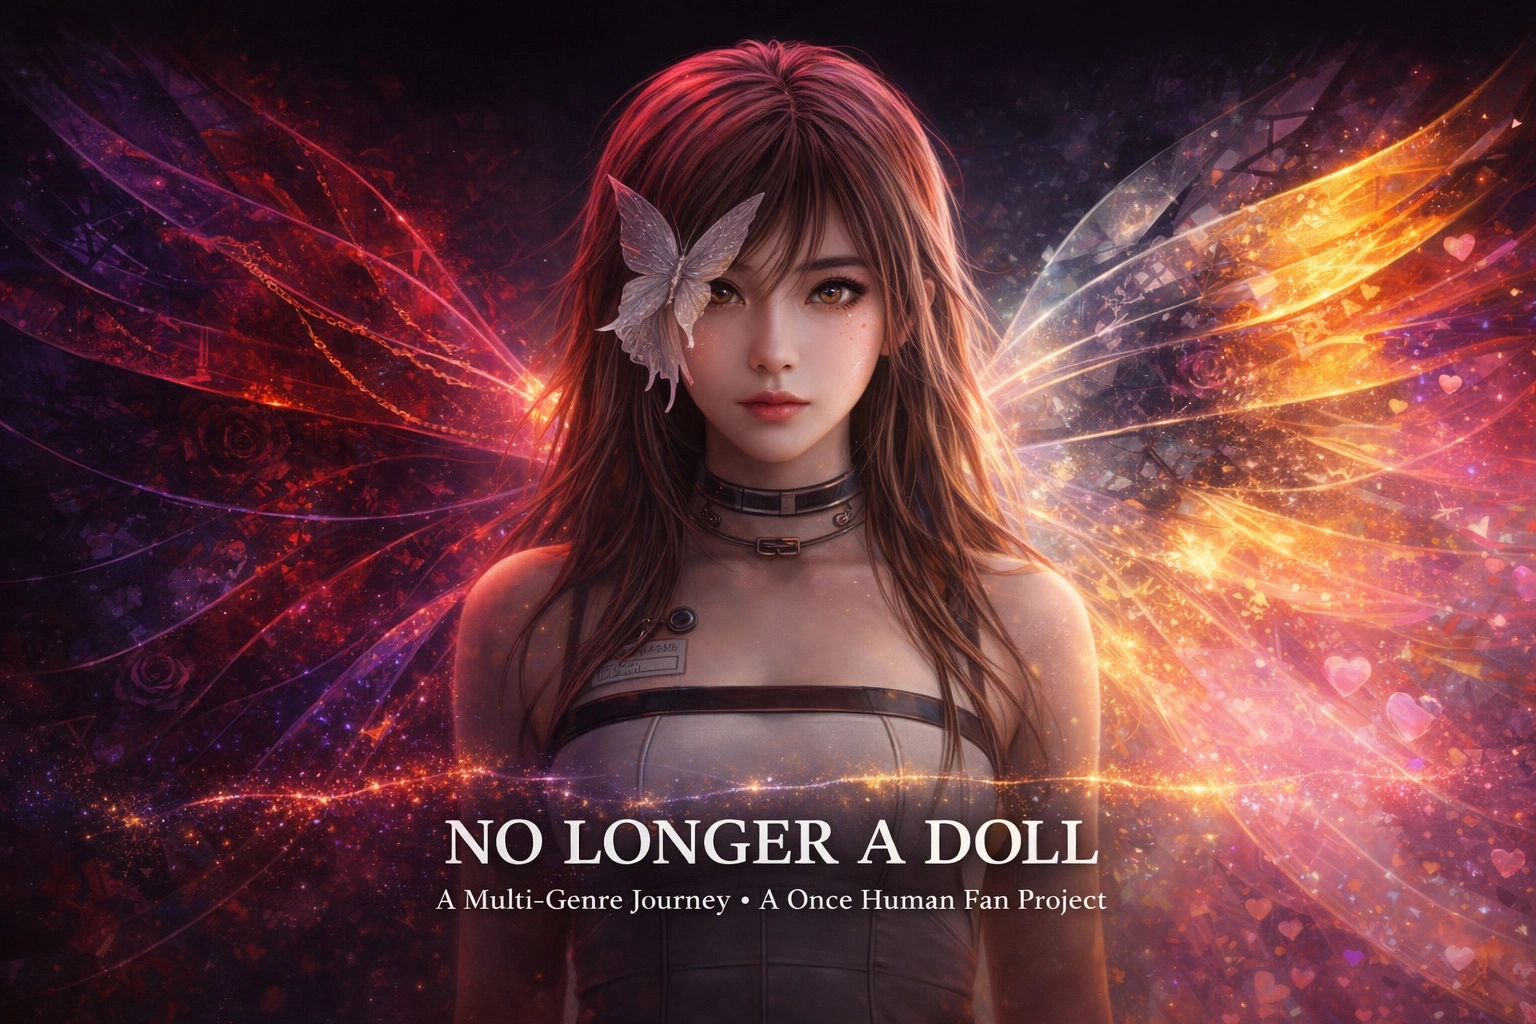
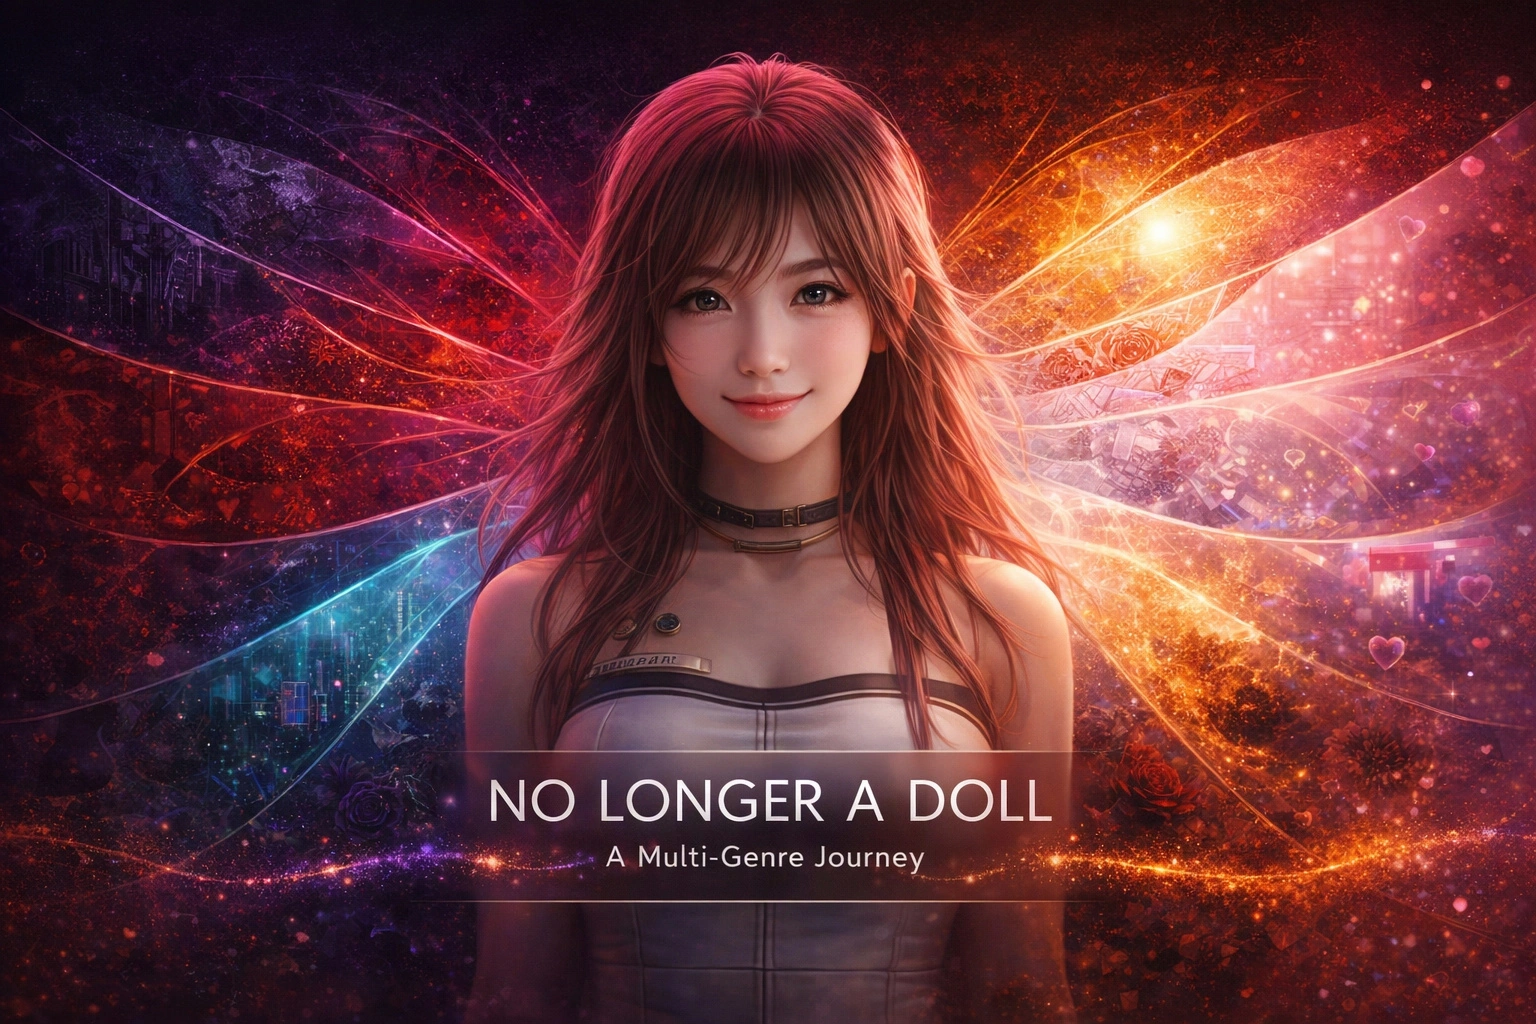
Preview ausgetauscht

diff --git a/styles/preview.md b/styles/preview.md
@@ -12,18 +12,20 @@ Für die GitHub-Startseite und das Social-Media-Preview-Image sind zwei verschie
 ![](covers/preview_3.webp)
 
 ````text
-SUBJECT: Create a 3:2 landscape key art banner (1536x1024) featuring a medium-shot central portrait (from chest up) of Mitsuko from the attached photorealistic reference image. Keep her exact face, natural skin pores, and hair identical to the reference—her face remains completely unmarred without cracks or glitches. Her eyes are OPEN. She looks directly at the viewer with a captivating expression blending vulnerability and newfound strength. Leave generous headroom above her hair and space below her chin so the image can later be cropped to a 2:1 banner without cutting off her head or text.
+SCENE: A wide 2:1 panoramic key art banner inside a 1536x1024 image designed with generous top and bottom margins so the central horizontal band can later be cropped cleanly to a 2:1 GitHub social preview (1280x640). Photorealistic cinematic still, shot on 35mm, crisp focus, rich lighting, fine film grain.
+SUBJECT: Medium-wide central portrait (from mid-chest up) of Mitsuko from the attached photorealistic reference image, framed comfortably inside the middle horizontal band of the canvas. Keep her exact face, natural skin pores, and hair identical to the reference—her face remains completely unmarred without cracks or glitches. No butterfly on her face.
+Her eyes are OPEN, bright, and sparkling with warm affection. She looks directly at the viewer with a gentle, closed-mouth smile—subtle, warm, and playfully expectant, as if happily welcoming someone special.
 COMPOSITION & 6 WING-LIKE STYLE SECTORS: Radiating symmetrically outward behind her shoulders like six translucent, multi-layered abstract wings of light, glass, and shadow, the background divides into six seamless sectors from left to right:
-1. Far Left (Witch House): Dark LEA-Labs ruins, violet ritual sigils, and smoky shadow-wing contours.
-2. Mid-Left (K-Pop Trap & Dark-Pop): Deep crimson velvet, gold chains, and glowing violet light-threads.
-3. Inner-Left (Cyberpunk Phonk): Rain-wet neon cyan and magenta light streaks with holographic glitch fragments.
-4. Inner-Right (Symphonic Gothic): Silver moonlight beams, shattered stained-glass rose window shards, and dark roses.
-5. Mid-Right (Epic Orchestral DnB): Radiant golden dawn sunbeams and blazing phoenix-like stardust trails.
-6. Far Right (Kawaii & Neon-Pop): Soft pastel pink arcade glow, holographic sparkles, and tiny floating glossy hearts.
-LIGHT & FX: Dynamic multi-colored rim lighting from the six wing-like background sectors illuminates the edges of her hair and shoulders, while her face remains crisply lit and photorealistic. A delicate trail of glowing violet and gold stardust weaves horizontally across the center.
+1. Far-left sector: Dark LEA-Labs ruins, violet ritual sigils, and smoky shadow-wing contours.
+2. Mid-left sector: Deep crimson velvet, gold chains, and glowing violet light-threads.
+3. Inner-left sector: Rain-wet neon cyan and magenta light streaks with holographic glitch fragments.
+4. Inner-right sector: Silver moonlight beams, shattered stained-glass rose window shards, and dark roses.
+5. Mid-right sector: Radiant golden dawn sunbeams and blazing phoenix-like stardust trails.
+6. Far-right sector: Soft pastel pink arcade glow, holographic sparkles, and tiny floating glossy hearts.
+LIGHT & FX: Dynamic multi-colored rim lighting from the six wing-like background sectors illuminates the edges of her hair and shoulders, while her face remains crisply lit and photorealistic with a soft, warm inner glow. A delicate trail of glowing violet and gold stardust weaves horizontally across the center.
 COLOR PALETTE: Rich transition from Void Black (#0A0710) and Crimson (#8C1C2E) on the left, through Neon Cyan (#00E5FF) and Radiant Gold (#FBBF24), to Candy Pink (#FF6FB5) on the right.
-TYPOGRAPHY: Placed cleanly in the central safe zone over her chest/collarbone area with subtle dark-glass contrast (well away from the top and bottom edges): Title "NO LONGER A DOLL" in sharp, bold lettering, and smaller subtitle "A Multi-Genre Journey • A Once Human Fan Project".
-STYLE: Photorealistic editorial key art photography, 85mm portrait lens sharpness on the face, wide framing with safe margins top and bottom, 3:2 landscape aspect ratio.
+TYPOGRAPHY: The only text in the entire image is a single nameplate. No other text anywhere — no panel headings, no captions, no labels, no genre names, no act names, no numbers, no watermarks, no single letters in the background or between the panels. Nameplate: sleek, semi-transparent dark frosted-glass bar across the lower chest area inside the middle 50% vertical safe zone (at least 25% away from top and bottom edges) so all faces and outfits stay clearly visible. On it only: bold title "NO LONGER A DOLL" with the smaller subtitle "A Multi-Genre Journey" directly underneath.
+STYLE: Photorealistic editorial key art photography, 35mm wide-angle sharpness on the face, wide panoramic framing with safe margins top and bottom, 3:2 landscape aspect ratio (1536x1024).
 ````
 
 #### Variante 02: Das Evolutions-Panorama *(Alternative)*
